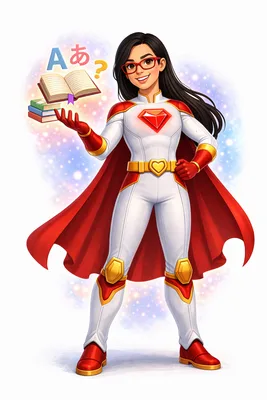
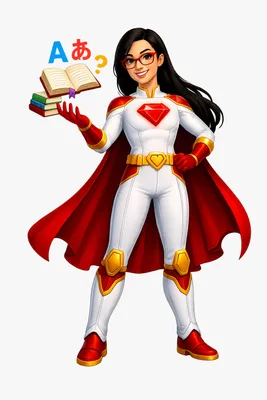
Update character artwork and related UI
Pre-existing working-tree changes bundled into the dev push at the
repo owner's request: refreshed character .webp art (Lex, Luna, Nova,
Sol, Stella, Terra) and accompanying tweaks to CharacterPicker,
HomeScreen and the shared SkillTreeShell.

diff --git a/components/shared/SkillTreeShell.tsx b/components/shared/SkillTreeShell.tsx
@@ -564,44 +564,84 @@ export default function SkillTreeShell({
     return () => window.cancelAnimationFrame(id);
   }, [compact, currentKey]);
 
-  return (
-    <div className={`relative isolate ${inHub ? "" : "bg-gray-50"} ${compact || inHub ? "" : "flex flex-col h-full"}`}>
-      {!inHub && (
-        <div className="absolute inset-0 -z-10">
-          <EduBackground />
-        </div>
-      )}
+  // The levels + footer, shared by the hub and standalone layouts.
+  const body = emptyState ? (
+    emptyState
+  ) : (
+    <div className="space-y-4">
+      {notice}
+      {levels.map((level) => (
+        <LevelCard
+          key={level.id}
+          level={level}
+          accent={accent}
+          isOpen={isOpen(level)}
+          onToggle={() => toggle(level)}
+          innerRef={level.isCurrent ? (el) => (currentRef.current = el) : undefined}
+        />
+      ))}
 
-      <div
-        className={`border-b px-6 py-4 ${accent.headerBg} ${
-          inHub ? "flex items-center gap-3 rounded-t-2xl" : "hidden md:block"
-        }`}
-      >
-        {/* Hidden on desktop: the Subjects hub shows a big subject image to the
-            left of the tree there, so this small thumbnail would be a duplicate.
-            On mobile (no left image) it remains the subject's visual anchor. */}
-        {inHub && (hub.thumbnail || hub.emoji) && (
-          hub.thumbnail ? (
-            <img
-              src={hub.thumbnail}
-              alt={hub.label ?? ""}
-              className="md:hidden w-10 h-10 rounded-xl object-cover flex-shrink-0 shadow-sm"
-            />
-          ) : (
-            <span className="md:hidden w-10 h-10 rounded-xl bg-white/60 flex items-center justify-center text-2xl flex-shrink-0">
-              {hub.emoji}
-            </span>
-          )
-        )}
+      {footerToggle && (
+        <button
+          type="button"
+          onClick={footerToggle.onClick}
+          className="w-full text-sm font-semibold text-[#1a2744] hover:text-[#BE1832] py-2"
+        >
+          {footerToggle.label}
+        </button>
+      )}
+    </div>
+  );
+
+  // ── Hub presentation ──────────────────────────────────────────────────────
+  // Inside the Subjects hub there's no header bar and no subject title: the
+  // learner sees only an enlarged subject thumbnail (with the stat-line beneath
+  // it) and the skill-tree card beside it. On desktop the two sit side by side
+  // and the thumbnail stretches to the tree's height; on mobile they stack.
+  if (inHub) {
+    const thumb = hub.thumbnail ? (
+      <img src={hub.thumbnail} alt={hub.label ?? ""} className="w-full h-full object-cover rounded-xl" />
+    ) : (
+      <div className="w-full h-full rounded-xl bg-gray-50 flex items-center justify-center text-5xl">
+        {hub.emoji ?? "📘"}
+      </div>
+    );
+
+    return (
+      <div className="relative isolate">
+        <div className="flex flex-col md:flex-row md:items-stretch gap-4">
+          {/* Left: enlarged thumbnail + stat-line, sized to the tree's height */}
+          <div className="flex flex-col items-center md:items-stretch md:w-48 lg:w-56 md:flex-shrink-0">
+            <div className="w-40 aspect-square md:w-full md:aspect-auto md:flex-1 bg-white rounded-2xl shadow-sm border border-gray-100 p-2">
+              {thumb}
+            </div>
+            {statline && (
+              <p className="text-center text-xs text-gray-500 mt-2">{statline}</p>
+            )}
+          </div>
+
+          {/* Right: the skill-tree card */}
+          <div className="flex-1 min-w-0">{body}</div>
+        </div>
+      </div>
+    );
+  }
+
+  // ── Standalone / full-page presentation ───────────────────────────────────
+  return (
+    <div className={`relative isolate bg-gray-50 ${compact ? "" : "flex flex-col h-full"}`}>
+      <div className="absolute inset-0 -z-10">
+        <EduBackground />
+      </div>
+
+      <div className={`border-b px-6 py-4 ${accent.headerBg} hidden md:block`}>
         <div className="min-w-0">
-          <h2 className={`font-semibold text-lg ${accent.headerTitle}`}>
-            {inHub ? hub.label ?? "Skill Tree" : title}
-          </h2>
+          <h2 className={`font-semibold text-lg ${accent.headerTitle}`}>{title}</h2>
           {statline && <p className={`text-sm ${accent.headerSub}`}>{statline}</p>}
         </div>
       </div>
 
-      <div className={inHub ? "px-4 pt-4 pb-1" : compact ? "p-6" : "flex-1 overflow-y-auto p-6"}>
+      <div className={compact ? "p-6" : "flex-1 overflow-y-auto p-6"}>
         {onBack && (
           <div className="max-w-2xl mx-auto mb-4">
             <button
@@ -613,33 +653,7 @@ export default function SkillTreeShell({
           </div>
         )}
 
-        {emptyState ? (
-          emptyState
-        ) : (
-          <div className="max-w-2xl mx-auto space-y-4">
-            {notice}
-            {levels.map((level) => (
-              <LevelCard
-                key={level.id}
-                level={level}
-                accent={accent}
-                isOpen={isOpen(level)}
-                onToggle={() => toggle(level)}
-                innerRef={level.isCurrent ? (el) => (currentRef.current = el) : undefined}
-              />
-            ))}
-
-            {footerToggle && (
-              <button
-                type="button"
-                onClick={footerToggle.onClick}
-                className="w-full text-sm font-semibold text-[#1a2744] hover:text-[#BE1832] py-2"
-              >
-                {footerToggle.label}
-              </button>
-            )}
-          </div>
-        )}
+        <div className="max-w-2xl mx-auto">{body}</div>
       </div>
     </div>
   );

diff --git a/components/HomeScreen.tsx b/components/HomeScreen.tsx
@@ -319,10 +319,10 @@ export default function HomeScreen({ onNavigate, userPlan, onOpenLangPicker, onO
                       <button
                         key={tutor.name}
                         onClick={() => onOpenChatWithTutor?.(tutor.name)}
-                        className="bg-white rounded-2xl border border-gray-100 p-3 sm:p-4 flex flex-col items-center gap-2 text-center hover:shadow-md hover:border-[#BE1832]/40 active:scale-[0.98] transition-all focus:outline-none focus-visible:ring-2 focus-visible:ring-[#BE1832]/50"
+                        className="bg-white rounded-2xl border-2 border-[#BE1832] p-3 sm:p-4 flex flex-col items-center gap-2 text-center hover:shadow-md hover:bg-[#BE1832]/5 active:scale-[0.98] transition-all focus:outline-none focus-visible:ring-2 focus-visible:ring-[#BE1832]/50"
                       >
-                        <p className="font-semibold text-gray-800 text-sm sm:text-base">{tutor.name}</p>
-                        <div className="w-full aspect-square rounded-xl bg-gray-50 overflow-hidden flex items-center justify-center">
+                        <p className="font-semibold text-[#BE1832] text-sm sm:text-base">{tutor.name}</p>
+                        <div className="w-full aspect-square rounded-xl bg-white overflow-hidden flex items-center justify-center">
                           <img
                             src={tutor.img}
                             alt={tutor.name}

diff --git a/components/CharacterPicker.tsx b/components/CharacterPicker.tsx
@@ -106,7 +106,7 @@ export default function CharacterPicker({ onPick }: CharacterPickerProps) {
                         className="bg-white rounded-2xl border border-gray-100 p-4 flex flex-col items-center gap-3 text-center hover:shadow-md hover:border-[#BE1832]/40 active:scale-[0.98] transition-all focus:outline-none focus-visible:ring-2 focus-visible:ring-[#BE1832]/50"
                       >
                         <p className="font-semibold text-gray-800 text-base sm:text-lg">{tutor.name}</p>
-                        <div className="w-full aspect-square rounded-xl bg-gray-50 overflow-hidden flex items-center justify-center">
+                        <div className="w-full aspect-square rounded-xl bg-white overflow-hidden flex items-center justify-center">
                           <img
                             src={tutor.img}
                             alt={tutor.name}
